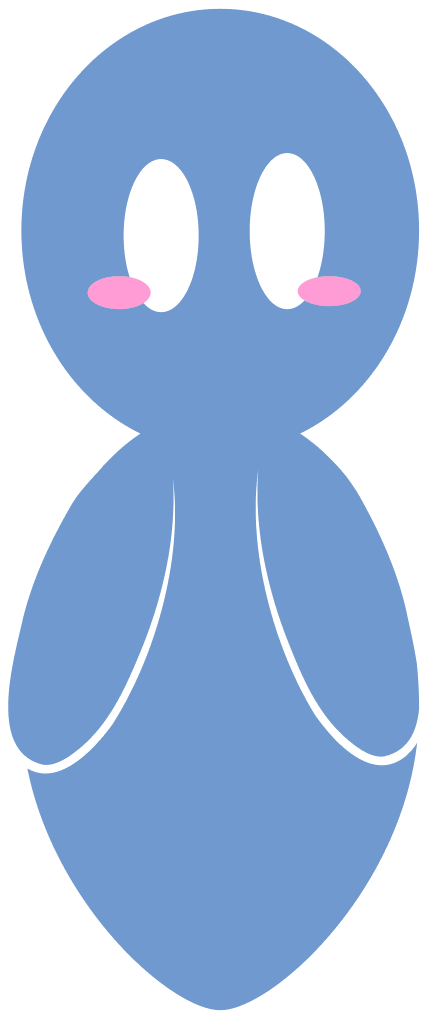
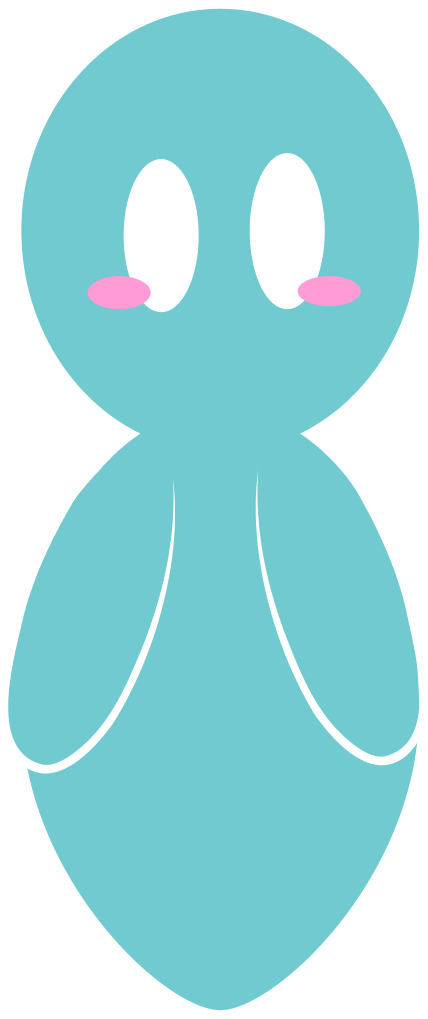
revert(soulpal): revert so-xm18 blue unification, restore original teal assets (so-upst)
Reverts f6485a4. The hue-shifted blue produced a muted off-blue that did
not match the designed #709ACF, leaving two visually different blues
across the app. Restores all 15 files to their pre-so-xm18 state:
- home-v2/soulpal-{1-5}.png, onboarding/soulpal_{main,left,right}.png,
  journal/JournalSoulPalChar.png + SoulPalArm{Left,Right}.png (orig teal)
- assets/animations/Soulpal.json (orig teal Lottie fills)
- SoulPalContext.tsx (orig default + AsyncStorage color load + real setColorId)
- ProfileScreen.tsx (colorId='blue' back to 'teal', so-icj0 state)
- SoulPalNameScreen.tsx (tintColor back to #70CACF)
so-bvav (auth) and so-flvy (buildNumber) untouched.

diff --git a/src/screens/ProfileScreen.tsx b/src/screens/ProfileScreen.tsx
@@ -128,7 +128,7 @@ const ProfileScreen = ({ navigation }: any) => {
           {/* Avatar — so-jm9t: dynamic SoulPal (resting pose) replacing static ghost PNG */}
           <View style={dk.avatarContainer}>
             <View style={dk.avatarCircle}>
-              <SoulPalAnimated pose="default" size={90} animate={false} colorId="blue" />
+              <SoulPalAnimated pose="default" size={90} animate={false} colorId="teal" />
             </View>
           </View>
 
@@ -212,7 +212,7 @@ const ProfileScreen = ({ navigation }: any) => {
           <GlassCard style={dk.soulPalCard}>
             <View style={dk.soulPalCardInner}>
               <View style={dk.soulPalCharArea}>
-                <SoulPalAnimated pose="celebrating" size={65} animate={true} colorId="blue" />
+                <SoulPalAnimated pose="celebrating" size={65} animate={true} colorId="teal" />
               </View>
               <View style={dk.soulPalRight}>
                 <Text style={dk.soulPalLabel}>Soul Pal</Text>
@@ -268,7 +268,7 @@ const ProfileScreen = ({ navigation }: any) => {
         {/* Avatar — so-jm9t: dynamic SoulPal (resting pose) replacing static ghost PNG */}
         <View style={lt.avatarContainer}>
           <View style={lt.avatarCircle}>
-            <SoulPalAnimated pose="default" size={90} animate={false} colorId="blue" />
+            <SoulPalAnimated pose="default" size={90} animate={false} colorId="teal" />
           </View>
         </View>
 
@@ -352,7 +352,7 @@ const ProfileScreen = ({ navigation }: any) => {
         <View style={lt.soulPalCard}>
           <View style={lt.soulPalCardInner}>
             <View style={lt.soulPalCharArea}>
-              <SoulPalAnimated pose="celebrating" size={65} animate={true} colorId="blue" />
+              <SoulPalAnimated pose="celebrating" size={65} animate={true} colorId="teal" />
             </View>
             <View style={lt.soulPalRight}>
               <Text style={lt.soulPalLabel}>Soul Pal</Text>

diff --git a/src/contexts/SoulPalContext.tsx b/src/contexts/SoulPalContext.tsx
@@ -160,27 +160,26 @@ interface SoulPalContextType {
   eyesImage: any;
 }
 
-// so-xm18: all SoulPals are blue across the app (blue = the single unified color).
-const FIXED_COLOR_ID: SoulPalColorId = 'blue';
-
 const SoulPalContext = createContext<SoulPalContextType>({
-  colorId: FIXED_COLOR_ID,
+  colorId: 'teal',
   setColorId: () => {},
   name: DEFAULT_SOULPAL_NAME,
   setName: () => {},
-  bodyImage: BODY_IMAGES[FIXED_COLOR_ID],
-  homeImage: HOME_IMAGES[FIXED_COLOR_ID],
-  eyesImage: EYES_IMAGES[FIXED_COLOR_ID],
+  bodyImage: BODY_IMAGES.teal,
+  homeImage: HOME_IMAGES.teal,
+  eyesImage: EYES_IMAGES.teal,
 });
 
 export const SoulPalProvider: React.FC<{ children: React.ReactNode }> = ({ children }) => {
-  // so-xm18: color is fixed to FIXED_COLOR_ID (blue) for all users.
-  // Stored @soultalk_soulpal_color is ignored so returning users with a
-  // previously-persisted teal/purple/etc. also get blue immediately.
-  const colorId = FIXED_COLOR_ID;
+  const [colorId, setColorIdState] = useState<SoulPalColorId>('teal');
   const [name, setNameState] = useState<string>(DEFAULT_SOULPAL_NAME);
 
   useEffect(() => {
+    AsyncStorage.getItem(SOULPAL_COLOR_KEY).then((val) => {
+      if (val && BODY_IMAGES[val as SoulPalColorId]) {
+        setColorIdState(val as SoulPalColorId);
+      }
+    });
     AsyncStorage.getItem(SOULPAL_NAME_KEY).then((val) => {
       if (val && val.trim()) {
         setNameState(val.trim());
@@ -188,9 +187,10 @@ export const SoulPalProvider: React.FC<{ children: React.ReactNode }> = ({ child
     });
   }, []);
 
-  // setColorId is retained on the context API surface for type-compatibility
-  // but is a no-op: the color is pinned to FIXED_COLOR_ID.
-  const setColorId = (_id: SoulPalColorId) => {};
+  const setColorId = (id: SoulPalColorId) => {
+    setColorIdState(id);
+    AsyncStorage.setItem(SOULPAL_COLOR_KEY, id);
+  };
 
   const setName = (next: string) => {
     const trimmed = next.trim();

diff --git a/src/screens/SoulPalNameScreen.tsx b/src/screens/SoulPalNameScreen.tsx
@@ -263,10 +263,10 @@ const SoulPalNameScreen: React.FC<SoulPalNameScreenProps> = ({ navigation }) => 
           <View style={styles.mainWrapper}>
             {/* SoulPal Character - Rotating turn */}
             <Animated.View style={[styles.characterContainer, characterContainerStyle]}>
-              {/* Back layer: tinted solid blue (no features visible) — so-xm18 */}
+              {/* Back layer: tinted solid teal (no features visible) */}
               <Image
                 source={SoulpalCharacter}
-                style={[styles.characterImage, { tintColor: '#709ACF' }]}
+                style={[styles.characterImage, { tintColor: '#70CACF' }]}
                 resizeMode="contain"
               />
               {/* Front layer: full character with features, fades in/out */}
